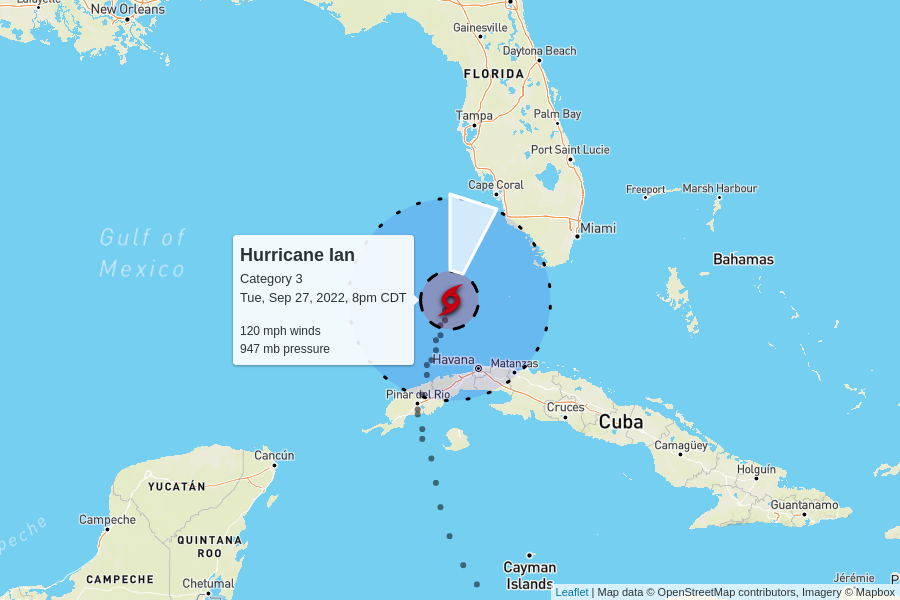
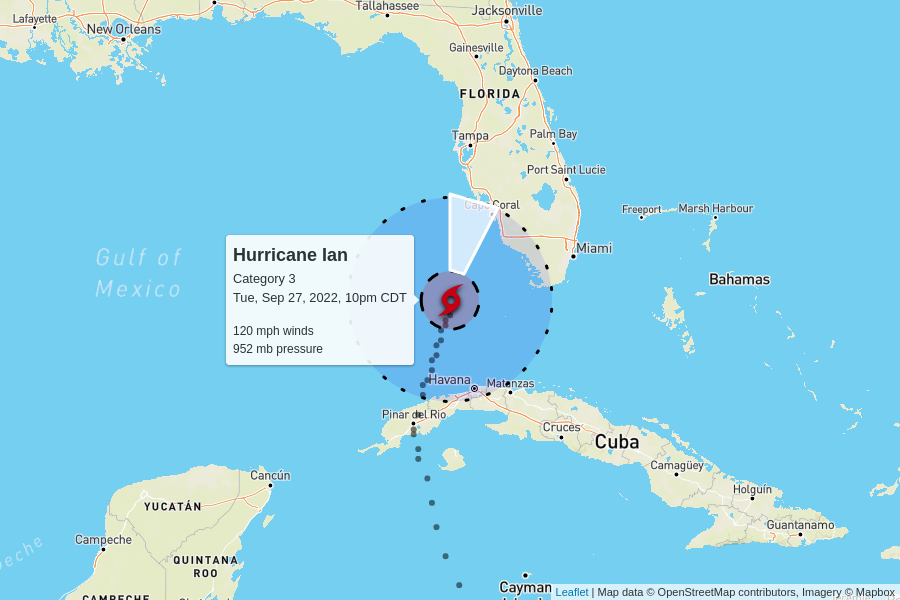
automatic update

diff --git a/docs/index.html b/docs/index.html
@@ -100,7 +100,7 @@
         <td colspan="6" class="storm category-3" >
           <h2>
             Hurricane Ian - Category 3
-            <p class="updated">last updated <span data-time>2022-09-28T01:00:00.000Z</span></p>
+            <p class="updated">last updated <span data-time>2022-09-28T03:00:00.000Z</span></p>
           </h2>
         </td>
       </tr>
@@ -116,7 +116,7 @@
       <tr>
         <td class="spacer"></td>
         <td>120 mph</td>
-        <td>947 mb</td>
+        <td>952 mb</td>
         <td>
           10 mph to the north-northeast
           <br/>
